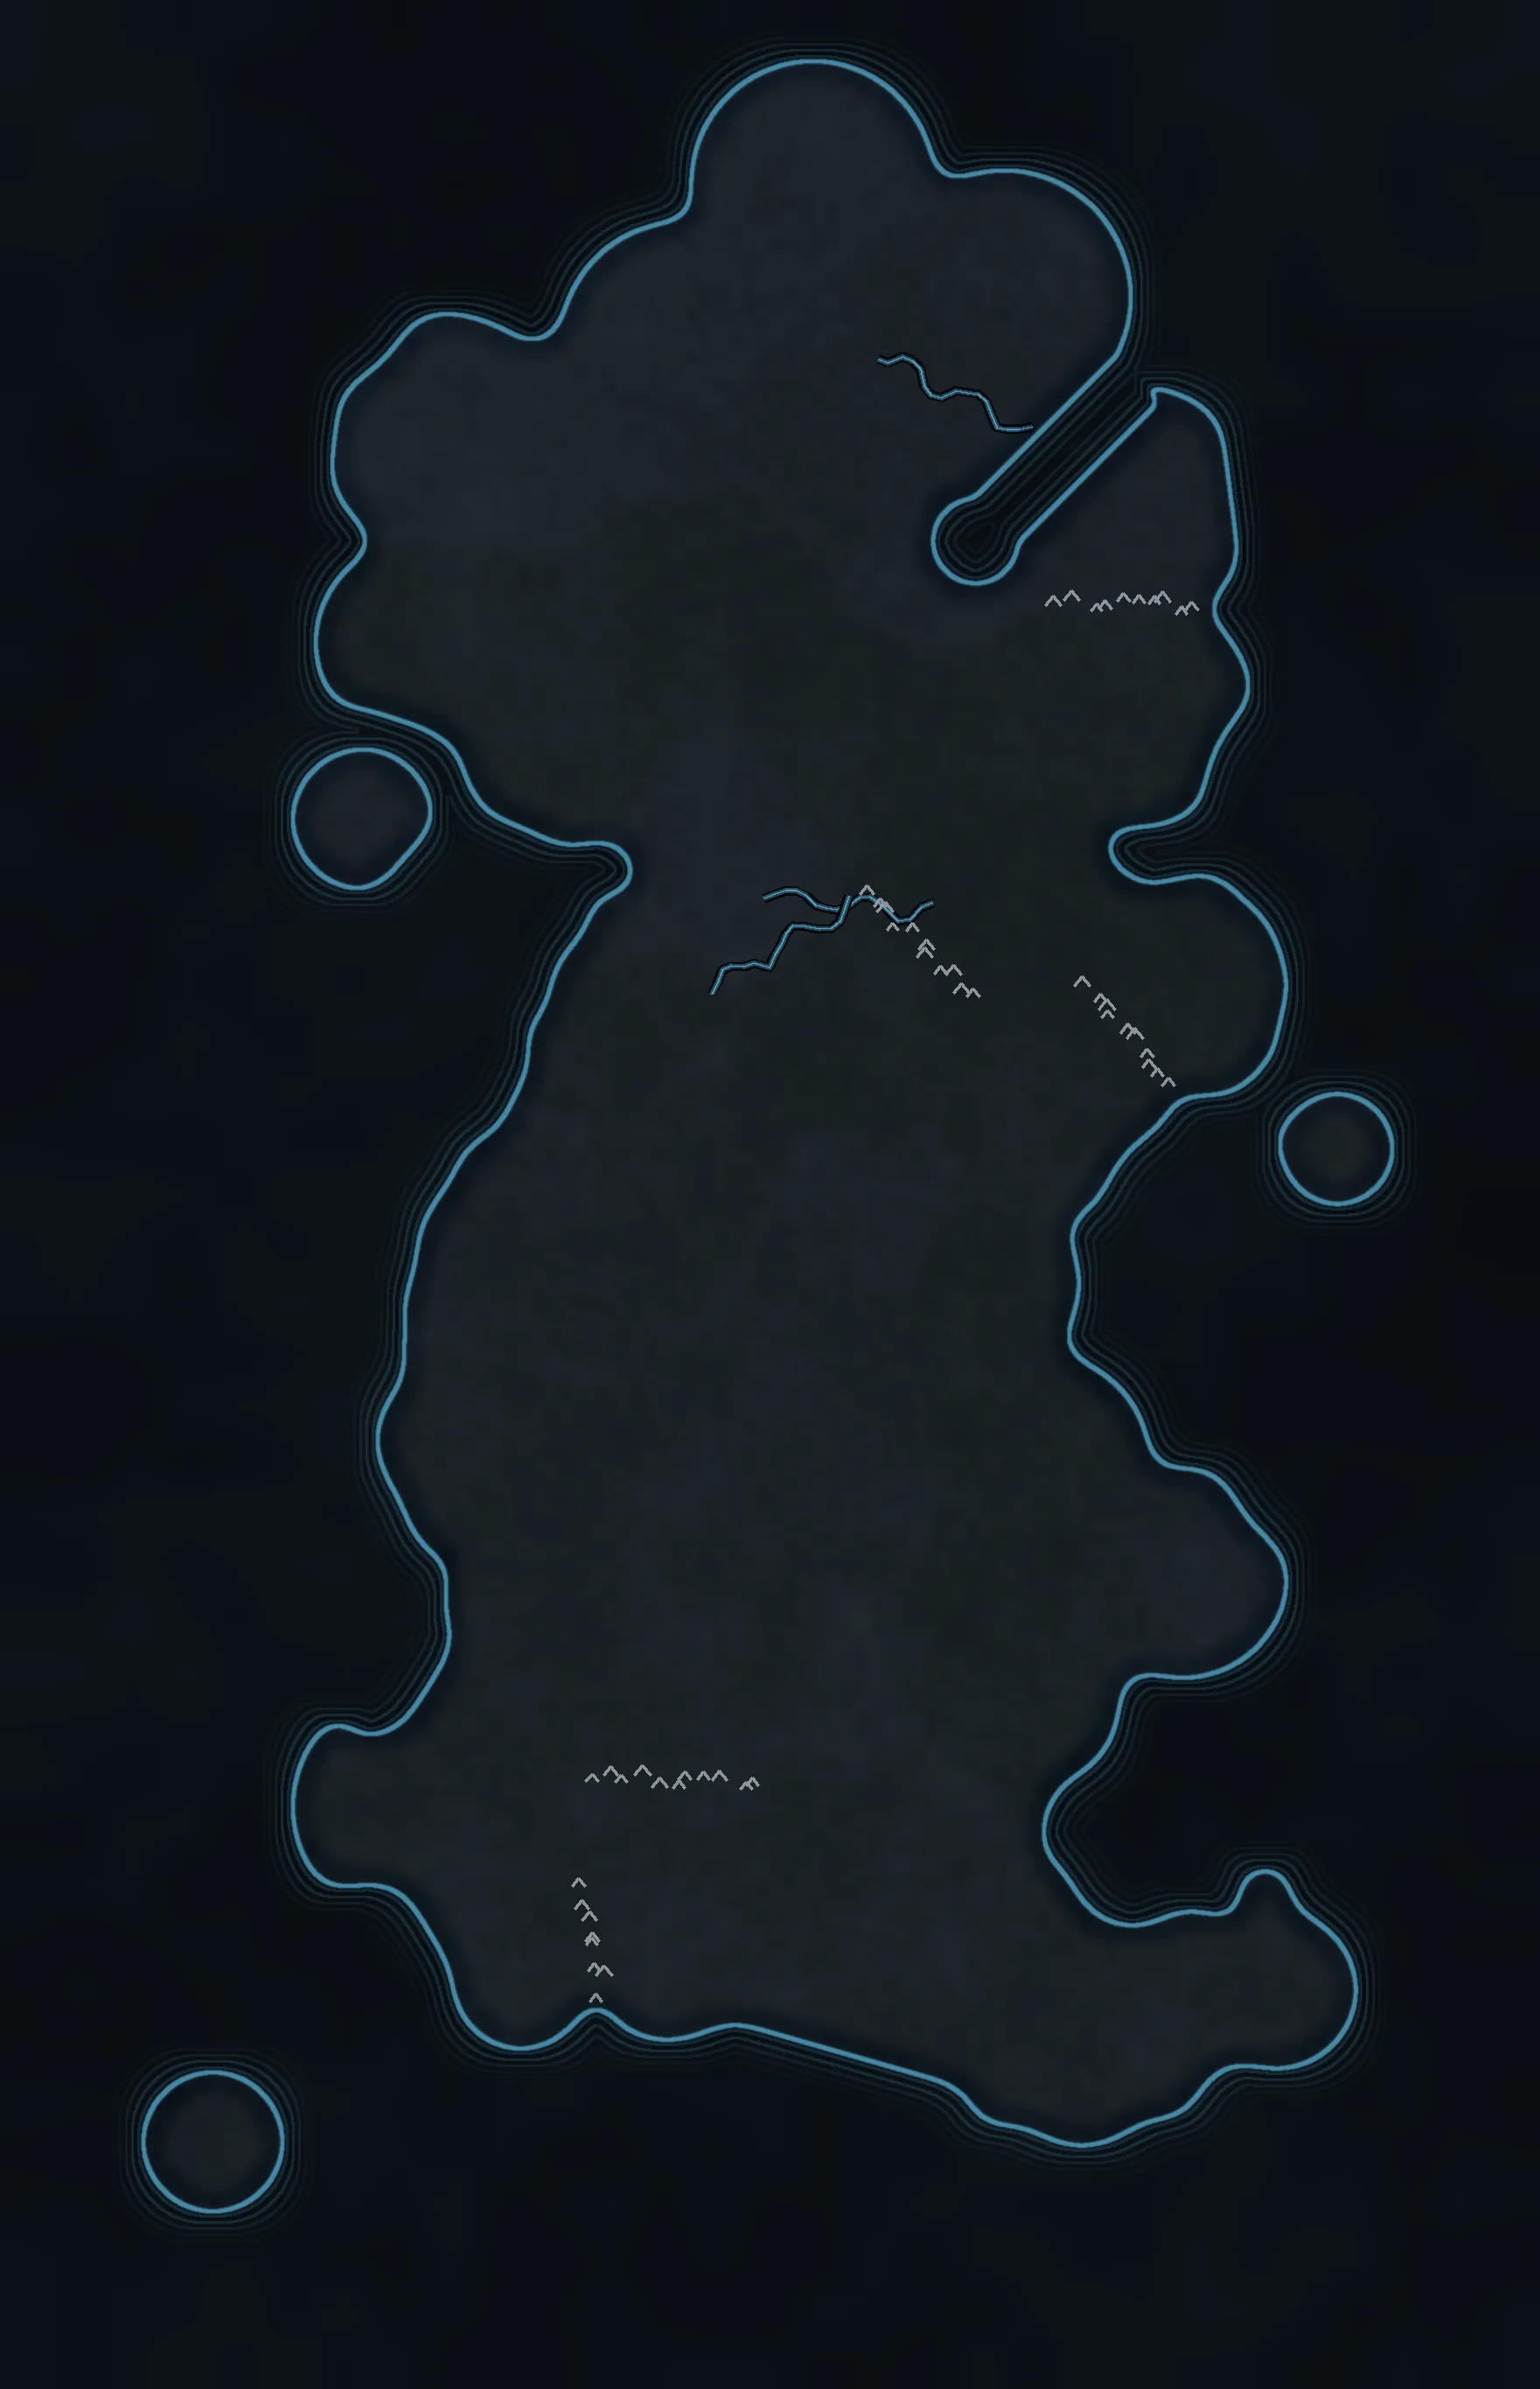
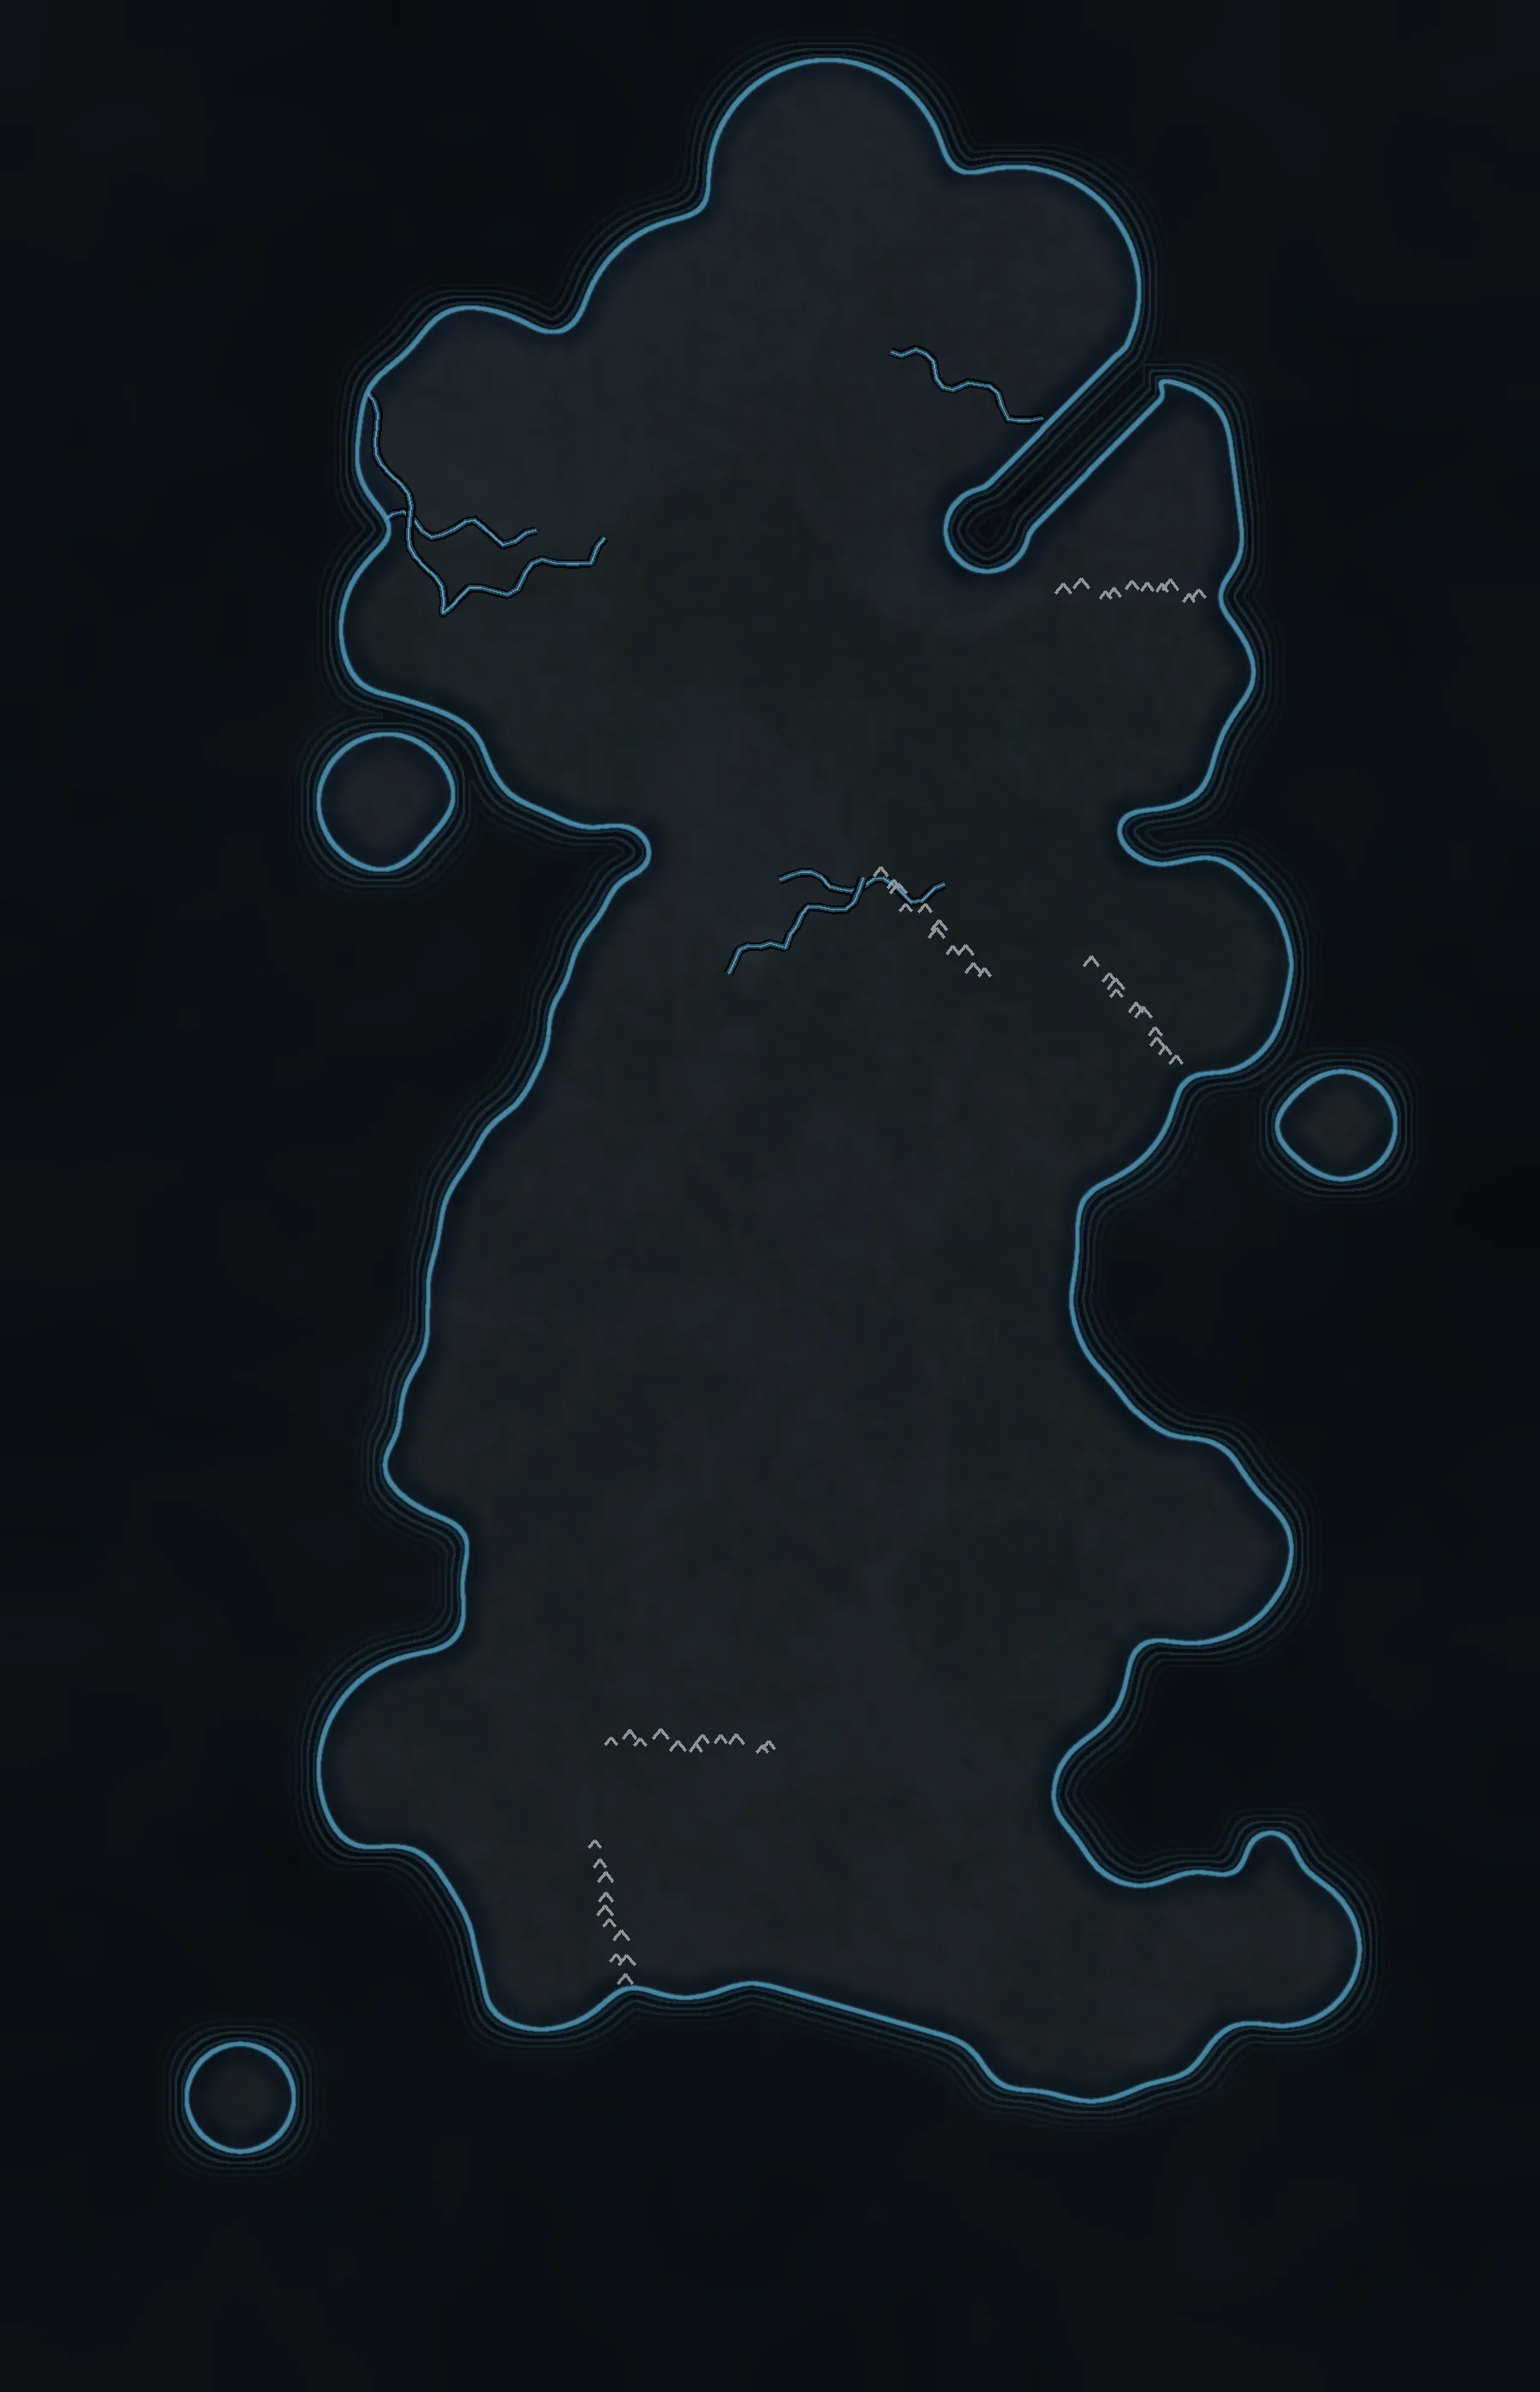
m2fd

diff --git a/src/themes/modern2026.js b/src/themes/modern2026.js
@@ -16,7 +16,7 @@ export const THEME_2026 = {
       hair: 'rgba(212, 218, 224, 0.14)',
     },
     // Rendered by tools/build-map.py from map.js — anchors align by construction.
-    canvas: { background: 'assets/map-2026.webp', x: -25, y: -47, w: 1101, h: 1707 },
+    canvas: { background: 'assets/map-2026.webp', x: -48, y: -47, w: 1124, h: 1745 },
     unitIcons: 'modern2026', // M2.f.3 symbol set (src/icons.js)
   },
   terms: {
@@ -91,22 +91,22 @@ export const THEME_2026 = {
   },
   regions: {
     // Russia (the North)
-    L01: 'Moscow',            L02: 'Murmansk',           L03: 'Karelia',
-    L04: 'St. Petersburg',    L05: 'Arkhangelsk',        L06: 'Kaliningrad',
-    L07: 'Belarus',           L08: 'The Pripet Marshes', L09: 'Warsaw',
-    L10: 'Gdańsk',            L11: 'Denmark',            L12: 'The Alps',
-    L13: 'Switzerland',       L14: 'Prague',             L15: 'Vienna',
-    L16: 'Frankfurt',         L17: 'The Rhineland',      L18: 'The Netherlands',
+    L01: 'Moscow',            L02: 'Murmansk',           L03: 'Helsinki',
+    L04: 'St. Petersburg',    L05: 'Tallinn',        L06: 'Stockholm',
+    L07: 'Belarus',           L08: 'Copenhagen', L09: 'Warsaw',
+    L10: 'Kyiv',            L11: 'Riga',            L12: 'The Alps',
+    L13: 'Geneva',       L14: 'Prague',             L15: 'Vienna',
+    L16: 'Frankfurt',         L17: 'The Rhineland',      L18: 'Amsterdam',
     L19: 'Brussels',          L20: 'Normandy',           L21: 'Dover',
     L22: 'London',            L23: 'The Caucasus',       L24: 'The Zagros Pass',
-    L25: 'Shiraz',            L26: 'Isfahan',            L27: 'Bandar Abbas',
+    L25: 'Rome',            L26: 'Baghdad',            L27: 'Cairo',
     L28: 'Tehran',            L29: 'The Loire Valley',   L30: 'Paris',
     L31: 'Marseille',         L32: 'Toulouse',           L33: 'Anatolia',
-    L34: 'Brittany',          L35: 'Bordeaux',           L36: 'Berlin',
-    L37: 'Oslo',              L38: 'Svalbard',
+    L34: 'Brittany',          L35: 'Tunis',           L36: 'Berlin',
+    L37: 'Oslo',              L38: 'Hammerfest',
     S01: 'The Barents Sea',   S02: 'The Baltic Sea',     S03: 'The North Sea',
-    S04: 'The English Channel', S05: 'The Caspian Sea',  S06: 'The Persian Gulf',
+    S04: 'The Pacific', S05: 'The Persian Gulf',  S06: 'The Red Sea',
     S07: 'The Mediterranean', S08: 'The Gulf of Lion',   S09: 'The Atlantic',
-    S10: 'The German Bight',  S11: 'The Skagerrak',      S12: 'The Frisian Coast',
+    S10: 'The German Bight',  S11: 'The Skagerrak',      S12: 'The English Channel',
   },
 };

diff --git a/src/game/app.js b/src/game/app.js
@@ -15,7 +15,7 @@ import { ICON_SETS } from '../icons.js';
 // Bumped every delivered drop; shown beside the seed so a stale deploy or a
 // cached module is visible at a glance (owner finding, Jul 2026: an entire
 // icon milestone was invisible — cache vs code was undiagnosable remotely).
-export const BUILD_ID = 'm2f3c';
+export const BUILD_ID = 'm2f3d';
 import { createGame, serialize, deserialize, region, seatsControlled, STAR_ALLOWANCE, controllerOf, regionProps } from '../engine/state.js';
 import { applyAction, beginPlanning, orderClasses, orderableRegions, starLimit, ORDER_TOKENS, episodeRecord } from '../engine/engine.js';
 import { combatStrengths } from '../engine/combat.js';
@@ -299,10 +299,14 @@ function overlayState(svg) {
       if (o) drawOrderBadge(g, rid, { ...o, faction: stagedFor, revealed: true }, 'ov-order ov-staged');
     }
   }
+  // Defense badges live bottom-LEFT (owner overlap finding, Jul 2026): the
+  // old top-right spot collided with the new castle marks and unit rows;
+  // bottom-center belongs to the control marker. (x-30, y+33) threads every
+  // lane: order badge above-left, icon row inboard, label below, marker center.
   for (const [rid, gar] of Object.entries(game.garrisons)) {
     const { x, y } = posOf(rid);
-    g.appendChild(el('circle', { cx: x + 30, cy: y - 30, r: 10, class: 'ov-garrison', style: `stroke:${fColor(gar.faction)}` }));
-    const t = el('text', { x: x + 30, y: y - 25.5, class: 'ov-num' }); t.textContent = gar.strength; g.appendChild(t);
+    g.appendChild(el('circle', { cx: x - 30, cy: y + 33, r: 10, class: 'ov-garrison', style: `stroke:${fColor(gar.faction)}` }));
+    const t = el('text', { x: x - 30, y: y + 37.5, class: 'ov-num' }); t.textContent = gar.strength; g.appendChild(t);
   }
   // Setup defense bonuses only: one badge per neutral force, styled like the
   // seat garrisons (same size, same numerals), gray ring for "no owner".
@@ -356,6 +360,17 @@ function drawOrderBadge(g, rid, o, cls) {
     const t = el('text', { x: bx + 13, y: by + 3.5, class: 'ov-order-mod' });
     t.textContent = (o.mod ? (o.mod > 0 ? '+' + o.mod : String(o.mod)) : '') + (o.starred ? '★' : '');
     g.appendChild(t);
+  }
+}
+
+/** Castle/citadel marks take the controller's color, brass when unowned
+    (owner request, Jul 2026 — "like units"). Runs each render: control moves. */
+function tintForts() {
+  for (const rg of document.querySelectorAll('#map .region[data-id]')) {
+    const u = rg.querySelector('use.ic-fort');
+    if (!u) continue;
+    const c = controllerOf(game, rg.dataset.id);
+    u.style.color = c ? fColor(c) : 'var(--brass)';
   }
 }
 
@@ -1429,6 +1444,7 @@ function render() {
   scanForStage();
   const svg = $('#map');
   renderMap(svg, theme, { onSelect: handleRegionTap });
+  tintForts();
   overlayState(svg);
   renderTurnPanel();
   renderHouses();

diff --git a/src/map-view.js b/src/map-view.js
@@ -1,10 +1,11 @@
 // Map renderer. Pure presentation: reads structure from data, names from theme.
 
 import { injectIcons } from './icons.js';
+import { EDGE_ROUTES } from './data/edgeRoutes.js';
 import { REGIONS, PORTS, EDGES, buildAdjacency } from './data/map.js';
 import { FACTIONS } from './data/factions.js';
 
-const W = 1100, H = 1610;
+const W = 1100, H = 1660; // H bumped: S07 moved to y=1568 (owner, Jul 2026)
 const ADJ = buildAdjacency();
 const factionById = Object.fromEntries(FACTIONS.map(f => [f.id, f]));
 
@@ -30,10 +31,10 @@ function iconRow(g, region, cx, cy) {
   for (let i = 0; i < (region.coin || 0); i++) marks.push('coin');
   const total = marks.length;
   if (!total) return;
-  const step = 16, x0 = cx - ((total - 1) * step) / 2;
+  const step = 20, x0 = cx - ((total - 1) * step) / 2; // unit-sized icons (owner, Jul 2026)
   marks.forEach((m, i) => {
     const x = x0 + i * step;
-    const use = svgEl('use', { x: x - 6.5, y: cy - 6.5, width: 13, height: 13,
+    const use = svgEl('use', { x: x - 9, y: cy - 9, width: 18, height: 18,
       class: m === 'supply' ? 'ic-supply' : 'ic-coin' });
     use.setAttribute('href', m === 'supply' ? '#i-supply' : '#i-coin');
     g.appendChild(use);
@@ -251,7 +252,11 @@ export function renderMap(svg, theme, { onSelect } = {}) {
   for (const [a, b] of EDGES) {
     if (!pos[a] || !pos[b]) continue;
     const sea = a.startsWith('S') || b.startsWith('S');
-    const pts = routedPoints(a, b);
+    // Water-routed lanes come precomputed from the build tool's A* over the
+    // land mask (owner: sea connectors travel over sea). JS anchor-avoidance
+    // remains the fallback for land-land edges and unrouted pairs.
+    const routed = EDGE_ROUTES[`${a}|${b}`] || EDGE_ROUTES[`${b}|${a}`];
+    const pts = routed ? routed.map(([x, y]) => ({ x, y })) : routedPoints(a, b);
     const cls = sea ? 'edge edge-sea' : 'edge edge-land';
     if (pts.length === 2) {
       edges.appendChild(svgEl('line', {

diff --git a/src/icons.js b/src/icons.js
@@ -31,7 +31,7 @@ export const ICON_SETS = {
 <symbol id="i-fort-citadel" viewBox="0 0 24 24"><rect x="4.5" y="4.5" width="15" height="15" fill="none" stroke="currentColor" stroke-width="2.3"/><rect x="9.5" y="9.5" width="5" height="5" fill="currentColor"/></symbol>
 <symbol id="i-port" viewBox="0 0 24 24"><rect x="7.2" y="7.2" width="9.6" height="9.6" transform="rotate(45 12 12)" fill="none" stroke="currentColor" stroke-width="2"/></symbol>
 <symbol id="i-supply" viewBox="0 0 24 24"><rect x="7" y="5" width="10" height="14" rx="3" fill="currentColor" stroke="var(--ink)" stroke-width="1.1"/><path d="M7 9.5 H17 M7 14.5 H17" stroke="var(--ink)" stroke-width="1.3"/></symbol>
-<symbol id="i-coin" viewBox="0 0 24 24"><circle cx="12" cy="12" r="7" fill="currentColor" stroke="var(--ink)" stroke-width="1.1"/><circle cx="12" cy="12" r="2.4" fill="var(--ink)"/></symbol>`,
+<symbol id="i-coin" viewBox="0 0 24 24"><path d="M4 19.5 C4 13 6.5 9.8 10.5 9.8 C12.6 9.8 14.1 11 14.8 12.8 L14.8 8.2 C14.8 6 16 4.6 17.6 4.6 C19.3 4.6 20.5 5.9 20.5 7.6 L20.5 19.5 Z" fill="currentColor" stroke="var(--ink)" stroke-width="1.1" stroke-linejoin="round"/></symbol>`,
   },
 
   asoiaf: {
@@ -45,7 +45,7 @@ export const ICON_SETS = {
 <symbol id="i-fort-citadel" viewBox="0 0 24 24"><path d="M3.5 21 V9.5 H4.9 V7.5 H6.3 V9.5 H7.7 V7.5 H9.1 V9.5 V13 H14.9 V9.5 H16.3 V7.5 H17.7 V9.5 H19.1 V7.5 H20.5 V21 Z M9.1 13 V21 M14.9 13 V21" fill="currentColor" stroke="var(--ink)" stroke-width="0.9" stroke-linejoin="round"/><rect x="10.9" y="16" width="2.2" height="5" fill="var(--ink)"/></symbol>
 <symbol id="i-port" viewBox="0 0 24 24"><path d="M12 8.2 V19 M7.4 11.2 H16.6 M5.4 14.6 C7 18.4 17 18.4 18.6 14.6 M5.4 14.6 L3.8 13.1 M5.4 14.6 L7.5 14 M18.6 14.6 L20.2 13.1 M18.6 14.6 L16.5 14" fill="none" stroke="currentColor" stroke-width="1.9" stroke-linecap="round"/><circle cx="12" cy="5.6" r="2.2" fill="none" stroke="currentColor" stroke-width="1.9"/></symbol>
 <symbol id="i-supply" viewBox="0 0 24 24"><rect x="7" y="4.8" width="10" height="14.4" rx="3.4" fill="currentColor" stroke="var(--ink)" stroke-width="1.1"/><path d="M7 9.3 H17 M7 14.7 H17" stroke="var(--ink)" stroke-width="1.3"/></symbol>
-<symbol id="i-coin" viewBox="0 0 24 24"><circle cx="12" cy="12" r="7" fill="currentColor" stroke="var(--ink)" stroke-width="1.1"/><path d="M8.6 13.8 L10 10.4 L12 12.6 L14 10.4 L15.4 13.8 Z" fill="var(--ink)"/></symbol>`,
+<symbol id="i-coin" viewBox="0 0 24 24"><path d="M4 19.5 C4 13 6.5 9.8 10.5 9.8 C12.6 9.8 14.1 11 14.8 12.8 L14.8 8.2 C14.8 6 16 4.6 17.6 4.6 C19.3 4.6 20.5 5.9 20.5 7.6 L20.5 19.5 Z" fill="currentColor" stroke="var(--ink)" stroke-width="1.1" stroke-linejoin="round"/></symbol>`,
   },
 
   modern2026: {
@@ -59,7 +59,7 @@ export const ICON_SETS = {
 <symbol id="i-fort-citadel" viewBox="0 0 24 24"><polygon points="12,3.5 21,10 17.5,20.5 6.5,20.5 3,10" fill="none" stroke="currentColor" stroke-width="2.2" stroke-linejoin="round"/><polygon points="12,9 15.6,11.6 14.2,15.8 9.8,15.8 8.4,11.6" fill="currentColor"/></symbol>
 <symbol id="i-port" viewBox="0 0 24 24"><rect x="3.5" y="3.5" width="17" height="17" rx="2" fill="none" stroke="currentColor" stroke-width="1.8"/><path d="M12 9 V17.4 M8.6 11.3 H15.4 M7.3 14.4 C8.6 17.2 15.4 17.2 16.7 14.4" fill="none" stroke="currentColor" stroke-width="1.7" stroke-linecap="round"/><circle cx="12" cy="7" r="1.7" fill="none" stroke="currentColor" stroke-width="1.7"/></symbol>
 <symbol id="i-supply" viewBox="0 0 24 24"><rect x="5.8" y="6.8" width="12.4" height="12.4" rx="1.4" fill="currentColor" stroke="var(--ink)" stroke-width="1.1"/><path d="M8 6.8 V4.4 H13.4" fill="none" stroke="var(--ink)" stroke-width="1.6"/><path d="M6.4 18.4 L17.6 7.6" stroke="var(--ink)" stroke-width="1.4"/></symbol>
-<symbol id="i-coin" viewBox="0 0 24 24"><polygon points="12,4.5 18.6,8.2 18.6,15.8 12,19.5 5.4,15.8 5.4,8.2" fill="currentColor" stroke="var(--ink)" stroke-width="1.1"/><circle cx="12" cy="12" r="2.2" fill="var(--ink)"/></symbol>`,
+<symbol id="i-coin" viewBox="0 0 24 24"><path d="M4 19.5 C4 13 6.5 9.8 10.5 9.8 C12.6 9.8 14.1 11 14.8 12.8 L14.8 8.2 C14.8 6 16 4.6 17.6 4.6 C19.3 4.6 20.5 5.9 20.5 7.6 L20.5 19.5 Z" fill="currentColor" stroke="var(--ink)" stroke-width="1.1" stroke-linejoin="round"/></symbol>`,
   },
 };
 

diff --git a/src/data/map.js b/src/data/map.js
@@ -58,12 +58,12 @@ export const REGIONS = [
   { id: 'S04', kind: 'maritime', x: 941, y: 979 },
   { id: 'S05', kind: 'maritime', x: 784, y: 1285 },
   { id: 'S06', kind: 'maritime', x: 946, y: 1507 },
-  { id: 'S07', kind: 'maritime', x: 418, y: 1530 },
+  { id: 'S07', kind: 'maritime', x: 82, y: 1568 }, // moved SW of the Arbor (owner, Jul 2026)
   { id: 'S08', kind: 'maritime', x: 240, y: 1373 },
   { id: 'S09', kind: 'maritime', x: 105,  y: 770 },
   { id: 'S10', kind: 'maritime', x: 187, y: 946 },
   { id: 'S11', kind: 'maritime', x: 320, y: 615 },
-  { id: 'S12', kind: 'maritime', x: 836, y: 827 },
+  { id: 'S12', kind: 'maritime', x: 800, y: 905 }, // south toward Kingswood, west toward Storm's End (owner, Jul 2026)
 ];
 
 // Ports: sub-areas joining one land region and one maritime region.

diff --git a/styles.css b/styles.css
@@ -382,8 +382,8 @@ body[data-texture] .side { background: linear-gradient(var(--ink-2), var(--ink-2
 /* ---------- M2.f.3 — iconography ---------- */
 .ic-fort { color: var(--brass); pointer-events: none; }
 .ic-port { color: var(--brass); pointer-events: none; }
-.ic-supply { color: var(--bone-dim); pointer-events: none; }
-.ic-coin { color: var(--brass); pointer-events: none; }
+.ic-supply { color: #9A6B3F; pointer-events: none; } /* wood (owner, Jul 2026) */
+.ic-coin { color: #FFD34D; pointer-events: none; } /* bright yellow POWER (owner, Jul 2026) */
 .unit-ic { pointer-events: none; }
 .tok { fill: var(--ink-2); stroke-width: 2; }
 .ov-order-back.tok { fill: var(--slate-2, #1c2430); opacity: 0.92; }

diff --git a/src/data/edgeRoutes.js b/src/data/edgeRoutes.js
@@ -1,0 +1,3 @@
+// GENERATED by tools/build-map.py — sea lanes routed over water via A*
+// on the land mask. Do not edit; re-run the build after map changes.
+export const EDGE_ROUTES = {"S01|L38": [[182.0, 143.0], [384.5, 145.5], [464.5, 85.5], [556.0, 83.0]], "S02|L38": [[880.0, 143.0], [849.5, 145.5], [839.5, 135.5], [804.5, 135.5], [729.5, 75.5], [669.5, 70.5], [624.5, 25.5], [614.5, 25.5], [556.0, 83.0]], "S01|L01": [[182.0, 143.0], [384.5, 145.5], [399.5, 135.5], [462.0, 198.0]], "S01|L06": [[182.0, 143.0], [199.5, 440.5], [219.5, 460.5], [244.5, 465.5], [244.5, 440.5], [274.0, 412.0]], "S01|L08": [[182.0, 143.0], [189.5, 150.5], [199.5, 440.5], [219.5, 460.5], [254.5, 470.5], [324.5, 540.5], [369.5, 500.5], [377.0, 484.0]], "S02|L02": [[880.0, 143.0], [864.5, 145.5], [849.5, 160.5], [824.5, 160.5], [759.5, 225.5], [693.0, 165.0]], "S02|L05": [[880.0, 143.0], [754.5, 280.5], [787.0, 314.0]], "S02|L01": [[880.0, 143.0], [849.5, 145.5], [839.5, 135.5], [804.5, 135.5], [739.5, 80.5], [714.5, 70.5], [674.5, 70.5], [599.5, 0.5], [544.5, -9.5], [504.5, 5.5], [469.5, 50.5], [464.5, 95.5], [454.5, 105.5], [454.5, 190.5], [462.0, 198.0]], "S02|L04": [[880.0, 143.0], [794.5, 230.5], [754.5, 235.5], [669.5, 315.5], [644.5, 325.5], [622.0, 303.0]], "S03|L04": [[930.0, 528.0], [924.5, 370.5], [859.5, 305.5], [854.5, 265.5], [839.5, 240.5], [809.5, 225.5], [784.5, 230.5], [729.5, 255.5], [669.5, 315.5], [649.5, 325.5], [622.0, 303.0]], "S03|L05": [[930.0, 528.0], [924.5, 370.5], [859.5, 305.5], [854.5, 265.5], [824.5, 230.5], [799.5, 225.5], [794.5, 240.5], [754.5, 280.5], [787.0, 314.0]], "S03|L07": [[930.0, 528.0], [924.5, 370.5], [859.5, 305.5], [844.5, 245.5], [809.5, 225.5], [799.5, 225.5], [724.5, 300.5], [684.5, 315.5], [649.5, 350.5], [574.5, 350.5], [529.5, 395.5], [498.0, 398.0]], "S03|L09": [[930.0, 528.0], [924.5, 370.5], [859.5, 305.5], [844.5, 245.5], [809.5, 225.5], [799.5, 225.5], [664.5, 360.5], [664.5, 415.5], [599.5, 480.5], [591.0, 504.0]], "S03|L13": [[930.0, 528.0], [899.5, 560.5], [899.5, 655.5], [838.0, 657.0]], "S03|L18": [[930.0, 528.0], [914.5, 550.5], [914.5, 680.5], [884.5, 715.5], [794.5, 795.5], [732.0, 741.0]], "S04|L20": [[941.0, 979.0], [789.5, 980.5], [764.5, 955.5], [722.0, 996.0]], "S05|L21": [[784.0, 1285.0], [794.5, 1215.5], [889.5, 1120.5], [899.5, 1095.5], [899.5, 1070.5], [869.5, 1035.5], [859.5, 1035.5], [821.0, 1077.0]], "S05|L26": [[784.0, 1285.0], [719.5, 1265.5], [677.0, 1306.0]], "S05|L28": [[784.0, 1285.0], [889.5, 1285.5], [929.5, 1335.5], [888.0, 1375.0]], "S06|L21": [[946.0, 1507.0], [949.5, 1345.5], [934.5, 1330.5], [899.5, 1255.5], [899.5, 1070.5], [869.5, 1035.5], [859.5, 1035.5], [821.0, 1077.0]], "S06|L25": [[946.0, 1507.0], [804.5, 1505.5], [774.5, 1490.5], [684.5, 1480.5], [644.5, 1445.5], [569.5, 1420.5], [454.5, 1415.5], [452.0, 1346.0]], "S06|L27": [[946.0, 1507.0], [784.5, 1500.5], [774.5, 1490.5], [749.5, 1490.5], [748.0, 1430.0]], "S06|L28": [[946.0, 1507.0], [939.5, 1485.5], [889.5, 1435.5], [888.0, 1375.0]], "S07|L25": [[82.0, 1568.0], [104.5, 1555.5], [234.5, 1555.5], [349.5, 1440.5], [399.5, 1415.5], [454.5, 1415.5], [452.0, 1346.0]], "S07|L30": [[82.0, 1568.0], [89.5, 1410.5], [179.5, 1320.5], [179.5, 1225.5], [189.5, 1200.5], [284.5, 1110.5], [354.0, 1110.0]], "S07|L32": [[82.0, 1568.0], [129.5, 1525.5], [144.5, 1525.5], [294.5, 1370.5], [347.0, 1369.0]], "S07|L34": [[82.0, 1568.0], [89.5, 1410.5], [119.5, 1380.5], [174.5, 1260.5], [184.5, 1210.5], [224.5, 1150.5], [229.5, 1010.5], [239.5, 980.5], [297.0, 982.0]], "S08|L30": [[240.0, 1373.0], [239.5, 1360.5], [224.5, 1345.5], [224.5, 1320.5], [184.5, 1275.5], [184.5, 1210.5], [199.5, 1185.5], [284.5, 1110.5], [354.0, 1110.0]], "S08|L35": [[240.0, 1373.0], [169.5, 1445.5], [169.5, 1485.5], [127.0, 1483.0]], "S07|L35": [[82.0, 1568.0], [129.5, 1525.5], [127.0, 1483.0]], "S09|L06": [[105.0, 770.0], [109.5, 610.5], [179.5, 540.5], [189.5, 505.5], [224.5, 470.5], [259.5, 470.5], [259.5, 425.5], [274.0, 412.0]], "S10|L14": [[187.0, 946.0], [239.5, 895.5], [239.5, 805.5], [349.5, 695.5], [364.5, 660.5], [418.0, 665.0]], "S10|L34": [[187.0, 946.0], [264.5, 945.5], [297.0, 982.0]], "S10|L36": [[187.0, 946.0], [264.5, 870.5], [269.5, 845.5], [330.0, 847.0]], "S11|L06": [[320.0, 615.0], [304.5, 515.5], [259.5, 470.5], [259.5, 425.5], [274.0, 412.0]], "S11|L08": [[320.0, 615.0], [379.5, 560.5], [377.0, 484.0]], "S11|L14": [[320.0, 615.0], [334.5, 625.5], [379.5, 625.5], [418.0, 665.0]], "S12|L18": [[800.0, 905.0], [799.5, 880.5], [789.5, 865.5], [789.5, 795.5], [732.0, 741.0]], "S01|S09": [[182.0, 143.0], [179.5, 610.5], [105.0, 770.0]], "S02|S03": [[880.0, 143.0], [879.5, 425.5], [930.0, 528.0]], "S03|S04": [[930.0, 528.0], [929.5, 710.5], [974.5, 760.5], [974.5, 905.5], [941.0, 979.0]], "S05|S06": [[784.0, 1285.0], [889.5, 1285.5], [939.5, 1340.5], [949.5, 1360.5], [946.0, 1507.0]], "S06|S07": [[946.0, 1507.0], [384.5, 1505.5], [329.5, 1560.5], [104.5, 1560.5], [82.0, 1568.0]], "S07|S08": [[82.0, 1568.0], [169.5, 1500.5], [169.5, 1450.5], [240.0, 1373.0]], "S09|S11": [[105.0, 770.0], [179.5, 695.5], [229.5, 695.5], [304.5, 620.5], [320.0, 615.0]], "S10|S11": [[187.0, 946.0], [194.5, 785.5], [284.5, 695.5], [320.0, 615.0]]};

diff --git a/src/themes/asoiaf.js b/src/themes/asoiaf.js
@@ -16,7 +16,7 @@ export const THEME_ASOIAF = {
       hair: 'rgba(232, 220, 196, 0.16)',
     },
     // Rendered by tools/build-map.py from map.js — anchors align by construction.
-    canvas: { background: 'assets/map-asoiaf.webp', x: -25, y: -47, w: 1101, h: 1707 },
+    canvas: { background: 'assets/map-asoiaf.webp', x: -48, y: -47, w: 1124, h: 1745 },
     unitIcons: 'asoiaf', // M2.f.3 symbol set (src/icons.js)
   },
   terms: {

diff --git a/tools/build-map.py b/tools/build-map.py
@@ -257,6 +257,70 @@ def scatter(out, mask_img, zones, icons, plan, seed=9):
             if rng.random() < 0.5: im = ImageOps.mirror(im)
             out.alpha_composite(im, (int(x - im.width / 2), int(y - im.height)))
 
+# ---------- sea lanes routed over water (owner finding, Jul 2026) ----------
+# Any edge touching a sea gets an A* route over the DOWNSAMPLED water grid:
+# sea-sea lanes treat land as nearly impassable; sea-land lanes may make
+# landfall only near their destination (land cost low but real). Routes that
+# meaningfully deviate from straight are emitted to src/data/edgeRoutes.js
+# for map-view to draw — printed-board sea lanes, computed from the same
+# mask the map is painted from.
+def compute_sea_routes(mask_img):
+    import heapq
+    F = 8
+    arr = (np.array(mask_img) > 128)
+    gh, gw = arr.shape[0] // F, arr.shape[1] // F
+    land = arr[:gh * F, :gw * F].reshape(gh, F, gw, F).any(axis=(1, 3))
+    def cell(x, y): return (min(gh - 1, max(0, int(y // F))), min(gw - 1, max(0, int(x // F))))
+    def astar(a, b, land_cost):
+        start, goal = cell(*a), cell(*b)
+        openq = [(0.0, start)]; gc = {start: 0.0}; came = {}
+        while openq:
+            _, cur = heapq.heappop(openq)
+            if cur == goal: break
+            cy, cx = cur
+            for dy in (-1, 0, 1):
+                for dx in (-1, 0, 1):
+                    if not dy and not dx: continue
+                    ny, nx = cy + dy, cx + dx
+                    if not (0 <= ny < gh and 0 <= nx < gw): continue
+                    ng = gc[cur] + math.hypot(dx, dy) * (land_cost if land[ny, nx] else 1)
+                    if ng < gc.get((ny, nx), 1e18):
+                        gc[(ny, nx)] = ng; came[(ny, nx)] = cur
+                        heapq.heappush(openq, (ng + math.hypot(goal[0] - ny, goal[1] - nx), (ny, nx)))
+        if goal not in came and goal != start: return None
+        path = [goal]
+        while path[-1] != start: path.append(came[path[-1]])
+        path.reverse()
+        return [((cx + 0.5) * F, (cy + 0.5) * F) for cy, cx in path]
+    def seg_d(pt, a, b):
+        (px2, py2), (ax2, ay2), (bx2, by2) = pt, a, b
+        dx, dy = bx2 - ax2, by2 - ay2
+        t = max(0, min(1, ((px2 - ax2) * dx + (py2 - ay2) * dy) / (dx * dx + dy * dy or 1)))
+        return math.hypot(px2 - (ax2 + t * dx), py2 - (ay2 + t * dy))
+    def rdp(ptsq, eps):
+        if len(ptsq) < 3: return ptsq
+        dmax, idx = 0, 0
+        for i in range(1, len(ptsq) - 1):
+            d = seg_d(ptsq[i], ptsq[0], ptsq[-1])
+            if d > dmax: dmax, idx = d, i
+        if dmax <= eps: return [ptsq[0], ptsq[-1]]
+        return rdp(ptsq[:idx + 1], eps)[:-1] + rdp(ptsq[idx:], eps)
+    routes = {}
+    for a, b in edges:
+        ka, kb = kind.get(a), kind.get(b)
+        if 'maritime' not in (ka, kb): continue
+        pa, pb = P(*pos[a]), P(*pos[b])
+        path = astar(pa, pb, 90 if (ka == 'maritime' and kb == 'maritime') else 14)
+        if not path: continue
+        path = rdp([pa] + path[1:-1] + [pb], 5.5 * S)
+        if max((seg_d(q, pa, pb) for q in path), default=0) < 16 * S: continue  # basically straight
+        routes[f'{a}|{b}'] = [[round(x / S + OX, 1), round(y / S + OY, 1)] for x, y in path]
+    out = ("// GENERATED by tools/build-map.py — sea lanes routed over water via A*\n"
+           "// on the land mask. Do not edit; re-run the build after map changes.\n"
+           "export const EDGE_ROUTES = " + json.dumps(routes) + ";\n")
+    (ROOT / 'src' / 'data' / 'edgeRoutes.js').write_text(out)
+    print(f'sea lanes: {len(routes)} routed over water -> src/data/edgeRoutes.js')
+
 # ---------- barriers (owner request, Jul 2026) ----------
 # Terrain that EXPLAINS non-adjacency: visually-close territories that do not
 # share an edge get a mountain chain or a river across the corridor between
@@ -291,6 +355,26 @@ def river_layer(mask_img, style):
             t = i / steps * L
             wig = math.sin(i * 0.9) * 7 * S + float(rng.uniform(-2.5, 2.5)) * S
             pts.append((mx + px * t + dx * wig, my + py * t + dy * wig))
+        if bar.get('mouth') in pos:
+            # Estuary (owner, Jul 2026): the river is "part of" a named sea —
+            # extend the end nearer that sea until it reaches open water.
+            sx, sy = P(*pos[bar['mouth']])
+            end = min([0, -1], key=lambda k: math.hypot(pts[k][0] - sx, pts[k][1] - sy))
+            ex, ey = pts[end]
+            dxm, dym = sx - ex, sy - ey
+            nm = math.hypot(dxm, dym) or 1
+            mpx = mask_img.load()
+            ext = []
+            for stp in range(1, int(340 * S / (9 * S)) + 1):
+                t2 = stp * 9 * S
+                wig = math.sin(stp * 0.8) * 6 * S
+                px2 = ex + dxm / nm * t2 - dym / nm / nm * 0  # along-course
+                x2 = ex + dxm / nm * t2 + (-dym / nm) * wig
+                y2 = ey + dym / nm * t2 + (dxm / nm) * wig
+                if not (0 <= x2 < W and 0 <= y2 < H): break
+                ext.append((x2, y2))
+                if mpx[int(x2), int(y2)] == 0: break  # reached the bay
+            pts = (list(reversed(ext)) + pts) if end == 0 else (pts + ext)
         for width, col in style:
             ld.line(pts, fill=col, width=int(width * S), joint='curve')
     # rivers exist on LAND only
@@ -429,6 +513,7 @@ if fails:
     print('GEOMETRY FAILS:', '; '.join(fails)); sys.exit(1)
 print(f'geometry verified: {len(land_ids)} land ({len(islands)} islands), {len(sea_ids)} seas, {len(ports)} harbors')
 check_barriers()
+compute_sea_routes(mask)
 zones = biome_masks_for(mask)
 icons = extract_stamps()
 print('stamps:', {k: len(v) for k, v in icons.items()})

diff --git a/tools/build-preview.py b/tools/build-preview.py
@@ -12,7 +12,7 @@ FILES = [
   'src/engine/planning.js', 'src/engine/actionPhase.js', 'src/engine/cards.js',
     'src/engine/combat.js', 'src/engine/bidding.js', 'src/engine/invaders.js', 'src/engine/eventPhase.js',
   'src/engine/victory.js', 'src/engine/engine.js', 'src/engine/views.js',
-  'src/icons.js', 'src/map-view.js', 'src/game/app.js',
+  'src/data/edgeRoutes.js', 'src/icons.js', 'src/map-view.js', 'src/game/app.js',
 ]
 def mid(path):  # module id
     return 'h/' + os.path.relpath(path, 'src')[:-3].replace(os.sep, '/')

diff --git a/README.md b/README.md
@@ -274,6 +274,36 @@ enforced); map-view renders the art under the graph, and over art the region
 shapes become tap halos (invisible until hover/tap) while seals, forts,
 ports, icon rows, unit clusters, order badges, and top-layer labels ride
 above. Core theme stays vector by design (reference/debug skin).
+**m2f3d — owner findings batch 2 (Jul 2026):**
+- **Defense badges relocated** (bottom-left, x-30/y+33): the old top-right
+  spot collided with the f.3 castle marks and unit rows; bottom-center
+  belongs to control markers. Every hex lane inventoried in the comment.
+- **Castle/citadel marks tint by controller** ("like units"): tintForts()
+  runs each render; brass when unowned.
+- **West Summer Sea (S07)** moved SW outside the Arbor (418,1530 → 82,1568);
+  **Blackwater Bay (S12)** moved south toward Kingswood, west toward Storm's
+  End (836,827 → 800,905). Mask re-verified; canvas grew to
+  {x:-48,y:-47,w:1124,h:1745} (both themes updated); map viewBox H 1610→1660.
+- **Sea lanes routed over WATER**: tools/build-map.py runs A* on the
+  downsampled land mask for every edge touching a sea (land nearly
+  impassable for sea-sea lanes; sea-land lanes may make landfall only near
+  their destination). 46 routes emitted to generated src/data/edgeRoutes.js;
+  map-view draws them smoothed, falling back to JS anchor-avoidance for
+  land-land edges. Rebuild after any map change.
+- **Stony Shore rivers with an estuary**: L03|L06 and L03|L08 rivers flow
+  INTO the Bay of Ice via a new `mouth` field on barriers — the two courses
+  merge and reach open water, "part of the bay" as ruled. (Pairs verified
+  non-adjacent; no rules change.)
+- **Power is a flexed arm** (all three icon sets, single-silhouette path) in
+  bright yellow #FFD34D; **supply is wood-brown** #9A6B3F; both unit-sized
+  (18px) in the icon rows.
+- **2026 rename batch (17)**: The Pacific (ex English Channel), The English
+  Channel (ex Frisian Coast), Rome, The Red Sea, The Persian Gulf (ex
+  Caspian), Baghdad, Cairo, Stockholm, Helsinki, Copenhagen, Kyiv,
+  Amsterdam, Riga, Tallinn, Tunis, Geneva, Hammerfest.
+- BUILD_ID → m2f3d. Next: **f.4 mobile & polish** opens the following
+  engine session (stage bottom-sheet proper, touch targets, safe areas).
+
 **m2f3c — the invisibility incident, root-caused (owner screenshot):** the
 f.3 build was CRASHING on deploy, not cached — `injectIcons` was called in
 map-view but never imported (the patch's import-line replace silently